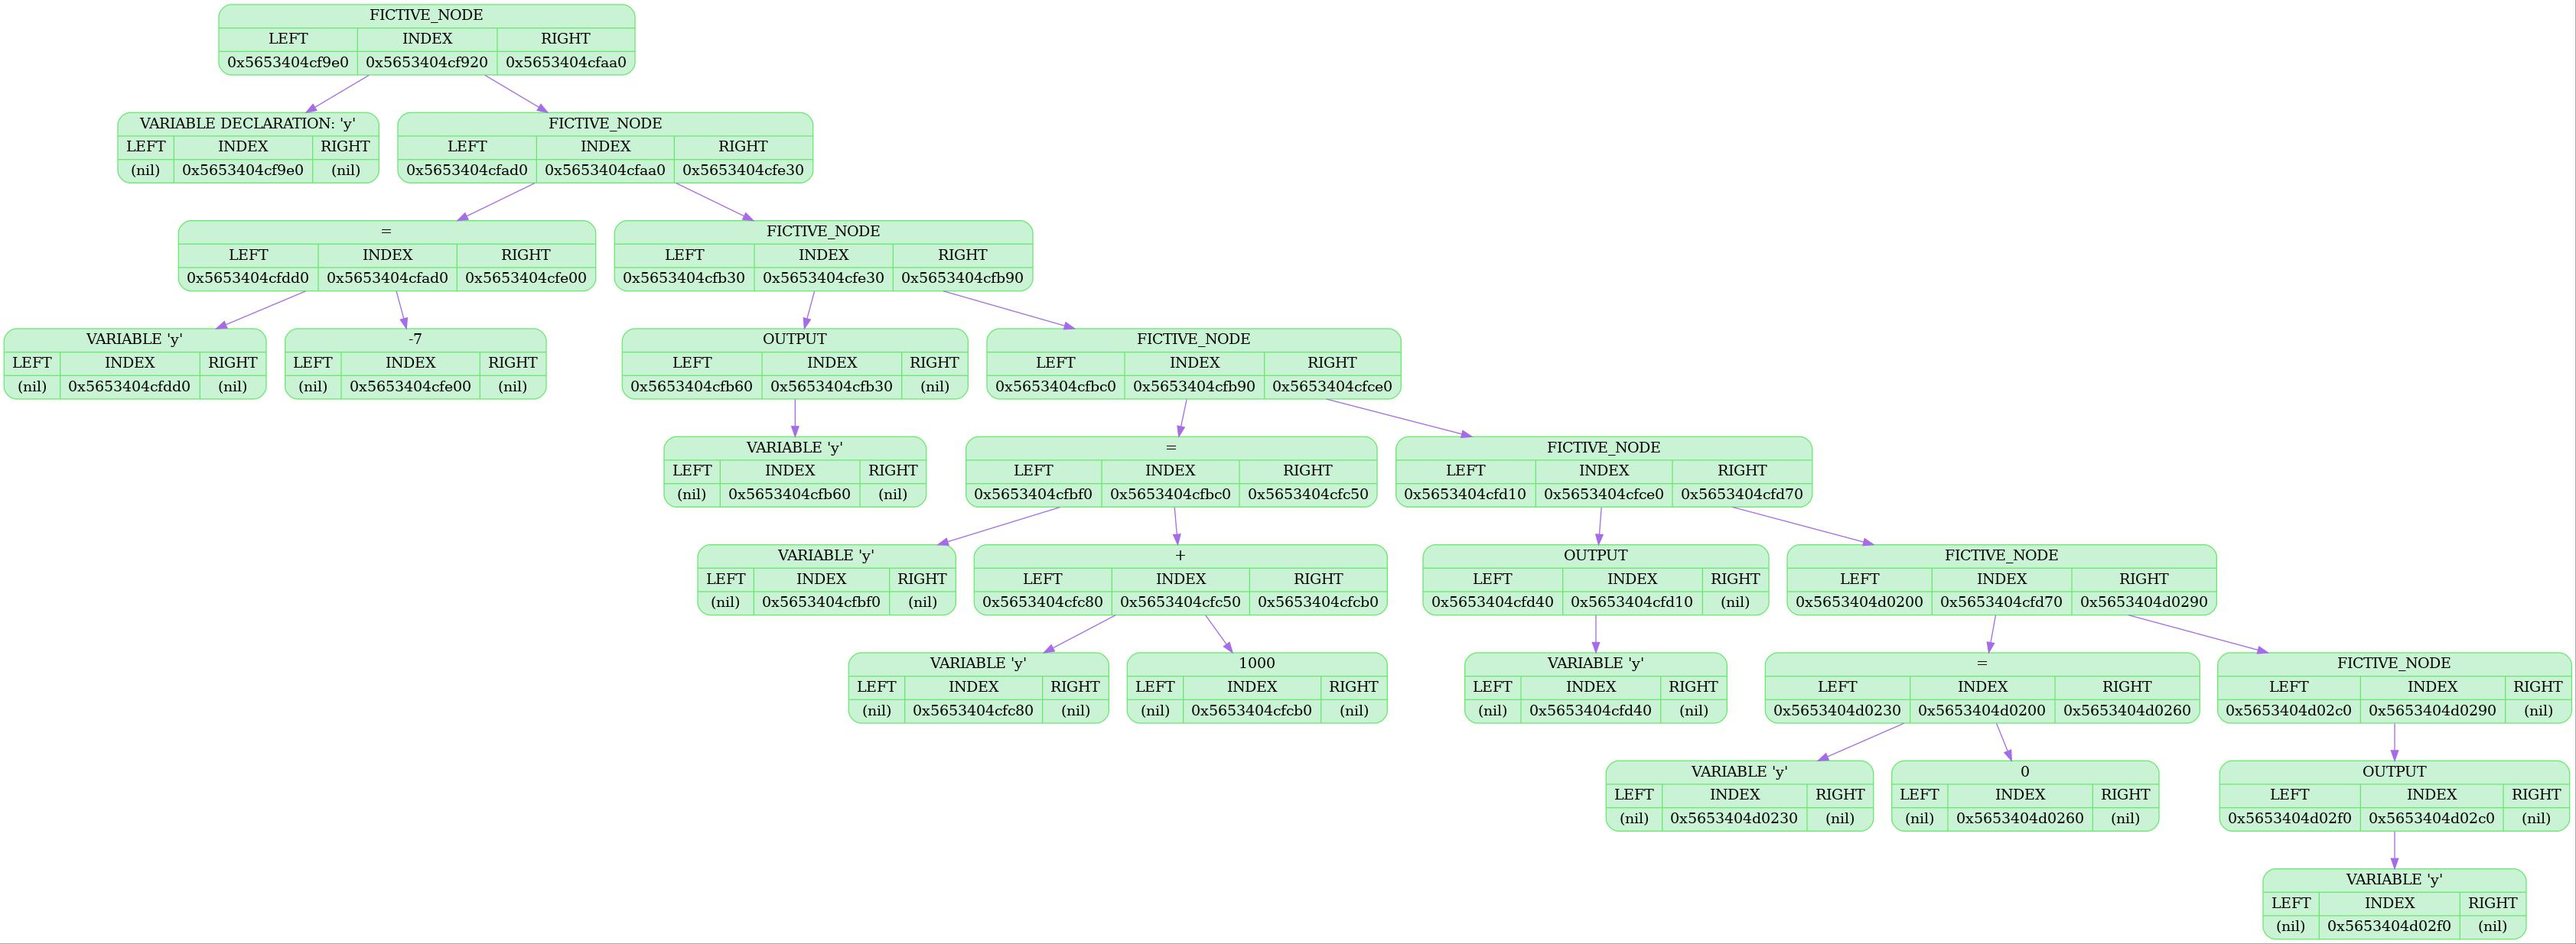
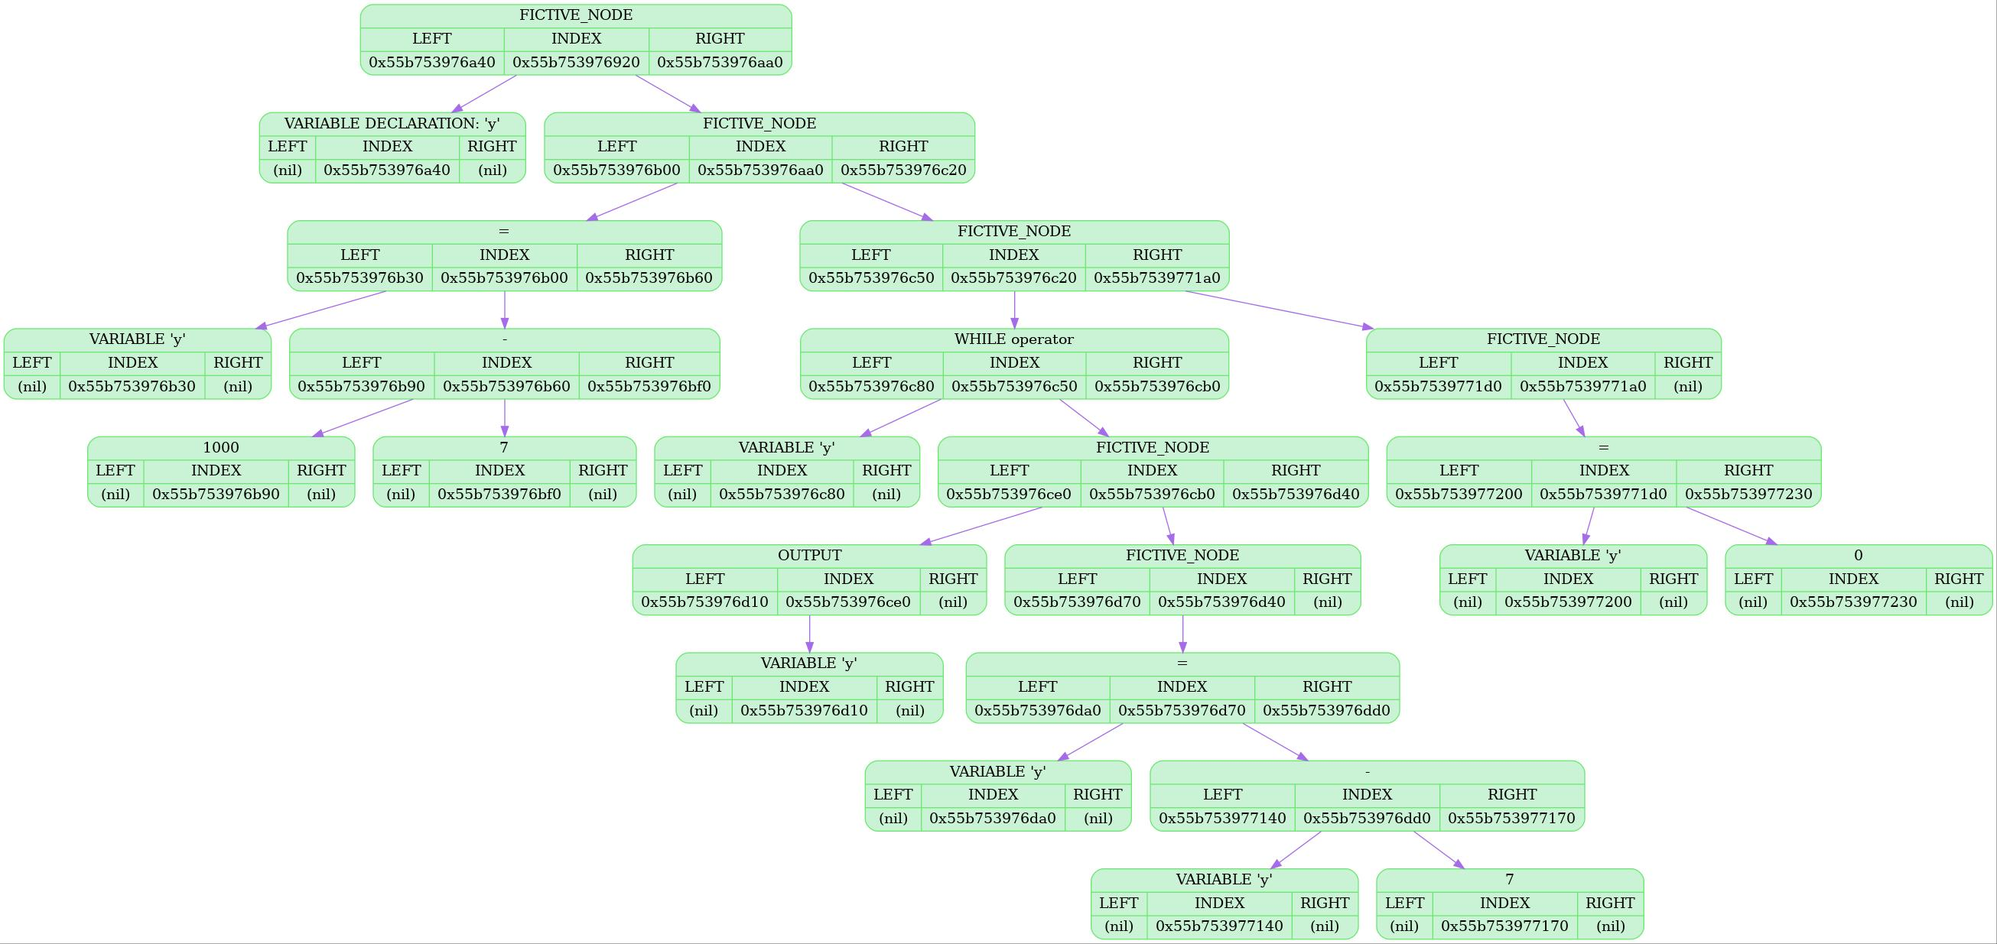
while operator

Changed region(s): [[0.0, 0.0, 1.0, 0.7692], [0.4343, 0.8, 1.0, 1.0], [0.6825, 0.3385, 0.8686, 0.4308]]

diff --git a/backend/backend.cpp b/backend/backend.cpp
@@ -41,8 +41,12 @@ void assemble_node(Tree *tree, Node *node, FILE *fp)
             {
                 case ASSIGN_OP:
                     assemble_node(tree, node->right, fp);
-                    fprintf(fp, "POP [%zu]\n", node->left->value.var_value);
-                    fprintf(fp, "PUSH [%zu]\n", node->left->value.var_value);
+                    fprintf(fp,
+                            "POP [%zu]\n",
+                            node->left->value.var_value);
+                    fprintf(fp,
+                            "PUSH [%zu]\n",
+                            node->left->value.var_value);
                     break;
                 case ADD_OP:
                     assemble_node(tree, node->left, fp);
@@ -90,6 +94,16 @@ void assemble_node(Tree *tree, Node *node, FILE *fp)
         case VARIABLE:
             fprintf(fp, "PUSH [%zu]\n", VALUE.var_value);
             break;
+        case WHILE:
+        {
+            Node *oper_node = node->left;
+            fprintf(fp, ":label_%p\n", node->right);
+            assemble_node(tree, node->right, fp);
+            assemble_node(tree, node->left, fp);
+            fprintf(fp, "PUSH 0\n");
+            fprintf(fp, "ja :label_%p\n", node->right);
+            break;
+        }
         default:
             fprintf(stderr, "UNKNOWN NODETYPE: %d\n", NODE_TYPE);
     }
